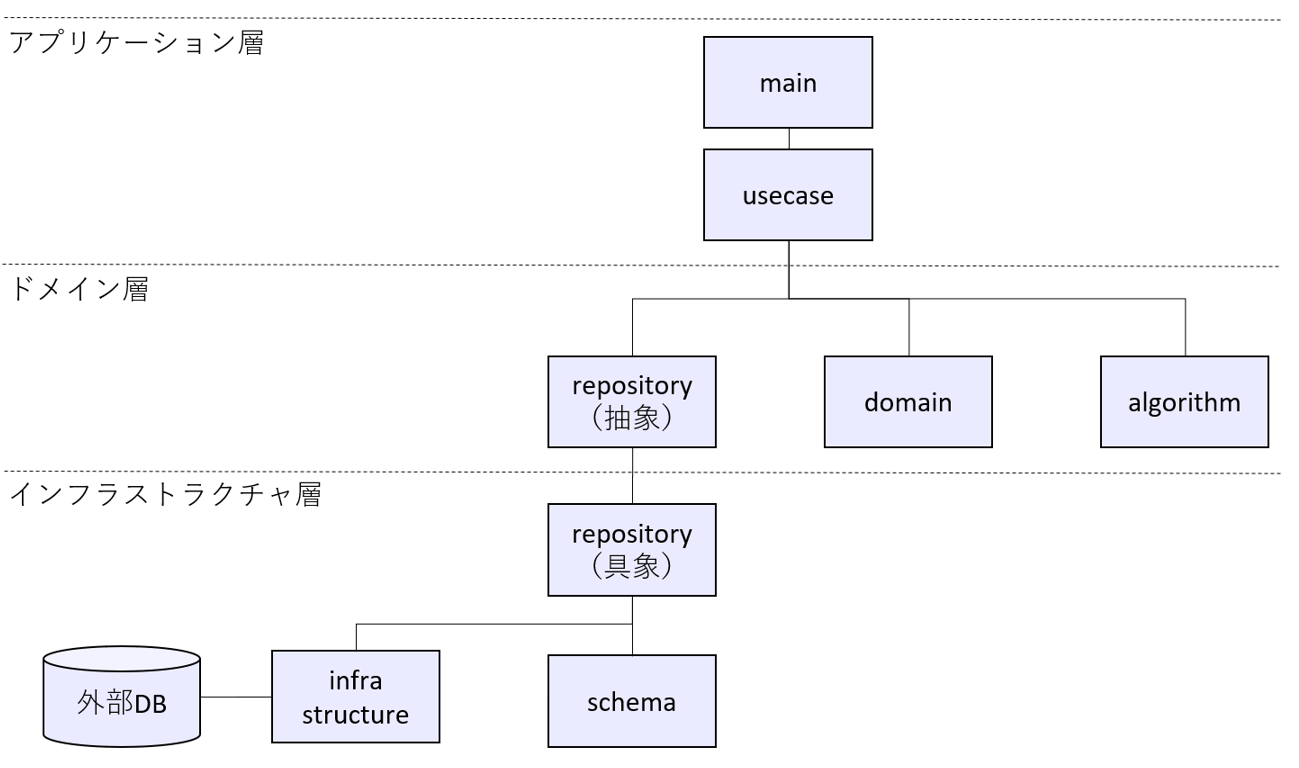
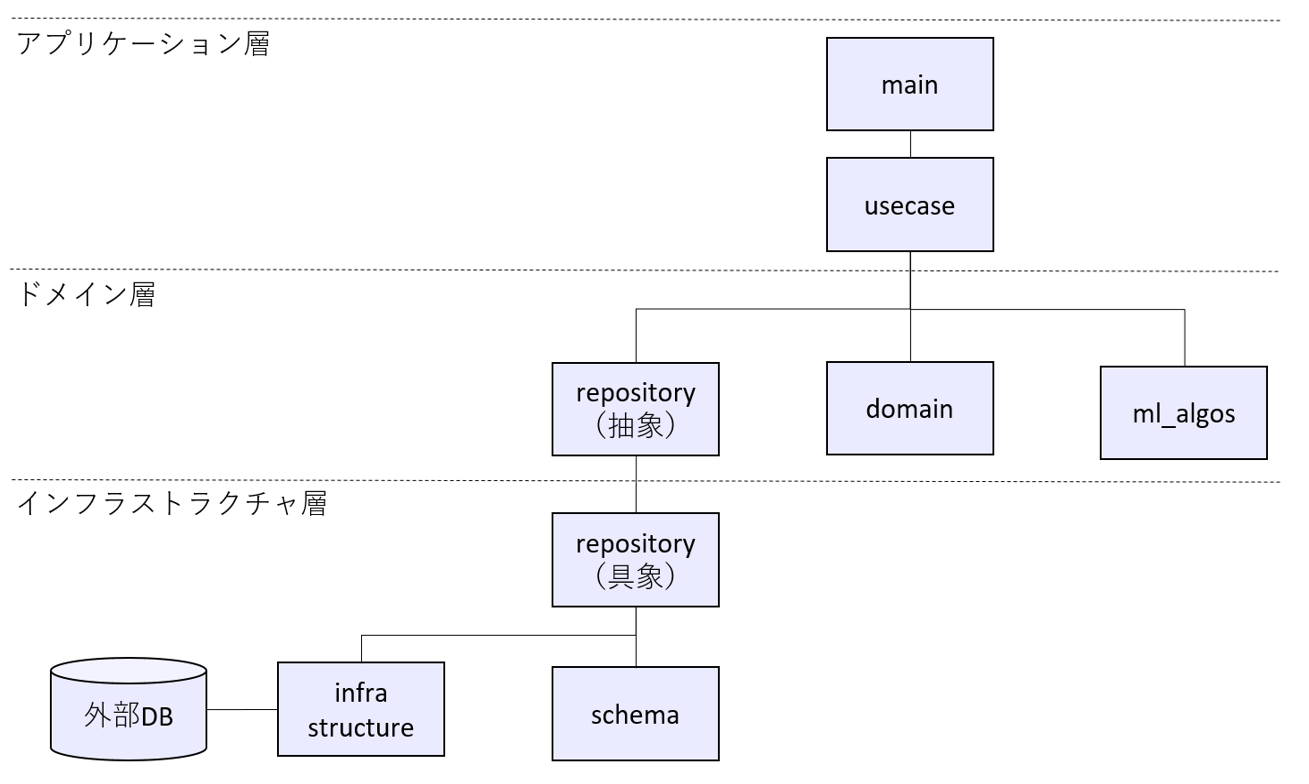
rename from algorithm to ml_algos

diff --git a/machine_learning/src/main.py b/machine_learning/src/main.py
@@ -4,13 +4,13 @@ import mlflow  # type: ignore
 from omegaconf import DictConfig
 
 import hydra
-from src.algorithm.lightgbm_regressor import LightGBMRegression
-from src.algorithm.models import get_model
-from src.algorithm.preprocess import LagSalesExtractor, PricesExtractor
 from src.domain.prediction_data import PredictionDataset
 from src.domain.training_data import TrainingDataset
 from src.infrastructure.database import PostgreSQLClient
 from src.middleware.logger import configure_logger
+from src.ml_algos.lightgbm_regressor import LightGBMRegression
+from src.ml_algos.models import get_model
+from src.ml_algos.preprocess import LagSalesExtractor, PricesExtractor
 from src.repository.calendar_repository import CalendarRepository
 from src.repository.prediction_repository import PredictionRepository
 from src.repository.prices_repository import PricesRepository

diff --git a/machine_learning/src/ml_algos/preprocess.py b/machine_learning/src/ml_algos/preprocess.py
@@ -106,9 +106,9 @@ class LagSalesExtractor(AbstractExtractor):
 
         df_lag = df_lag.assign(
             **{
-                "lag_{}_{}".format(col, lag_day): df_lag.groupby(["id"])["sales"].transform(
-                    lambda x: x.shift(lag_day)
-                )
+                "lag_{}_{}".format(col, lag_day): df_lag.groupby(["id"])[
+                    "sales"
+                ].transform(lambda x: x.shift(lag_day))
                 for lag_day in num_lag_day_list
             }
         )

diff --git a/machine_learning/src/usecase/evaluation_usecase.py b/machine_learning/src/usecase/evaluation_usecase.py
@@ -4,9 +4,9 @@ import pandas as pd
 from sklearn.metrics import mean_absolute_error  # type: ignore
 from sklearn.metrics import mean_squared_error  # type: ignore
 
-from src.algorithm.lightgbm_regressor import AbstractModel
 from src.domain.evaluation_data import Evaluation, FeatureImportances
 from src.middleware.logger import configure_logger
+from src.ml_algos.lightgbm_regressor import AbstractModel
 
 logger = configure_logger(__name__)
 

diff --git a/machine_learning/src/usecase/preprocess_usecase.py b/machine_learning/src/usecase/preprocess_usecase.py
@@ -1,10 +1,10 @@
 import pandas as pd
 
-from src.algorithm.preprocess import AbstractExtractor
 from src.domain.common_data import XY
 from src.domain.preprocessed_data import PreprocessedDataset
 from src.domain.raw_data import RawDataset
 from src.middleware.logger import configure_logger
+from src.ml_algos.preprocess import AbstractExtractor
 
 logger = configure_logger(__name__)
 

diff --git a/machine_learning/src/usecase/prediction_usecase.py b/machine_learning/src/usecase/prediction_usecase.py
@@ -1,8 +1,8 @@
 import pandas as pd
 
-from src.algorithm.lightgbm_regressor import AbstractModel
 from src.domain.prediction_data import Prediction, PredictionDataset
 from src.middleware.logger import configure_logger
+from src.ml_algos.lightgbm_regressor import AbstractModel
 
 logger = configure_logger(__name__)
 

diff --git a/machine_learning/src/usecase/training_usecase.py b/machine_learning/src/usecase/training_usecase.py
@@ -1,8 +1,8 @@
 import pandas as pd
 
-from src.algorithm.lightgbm_regressor import AbstractModel
 from src.domain.training_data import TrainingDataset
 from src.middleware.logger import configure_logger
+from src.ml_algos.lightgbm_regressor import AbstractModel
 
 logger = configure_logger(__name__)
 

diff --git a/machine_learning/src/ml_algos/models.py b/machine_learning/src/ml_algos/models.py
@@ -1,7 +1,7 @@
 from enum import Enum
 from typing import List
 
-from src.algorithm.lightgbm_regressor import LightGBMRegression
+from src.ml_algos.lightgbm_regressor import LightGBMRegression
 
 
 class MODEL(Enum):

diff --git a/README.md b/README.md
@@ -68,19 +68,19 @@
 - リポジトリのライブラリ管理
   - [poetry](https://python-poetry.org/): Pythonのライブラリを管理する。
 
-[machine_learning](./machine_learning/)のプログラムはレイヤードアーキテクチャを採用。クラスを抽象クラスと具象クラスに分けて、コンポーネントの依存が一方向になるように整理しています。
+[machine_learning](./machine_learning/)のプログラムはレイヤードアーキテクチャを採用。クラスを抽象クラスと具象クラスに分けて実装、コンポーネントの依存が一方向になるよう整理しています。
 プログラムは以下のコンポーネントで構成されています。
 
 - [main.py](machine_learning/src/main.py): クラスを初期化し、usecaseのメソッドを実行
 - [usecase](machine_learning/src/usecase/): 機械学習パイプラインの各処理（データ取得、前処理、学習、評価、予測）
 - [domain](machine_learning/src/domain/): usecase間で受け渡すドメインオブジェクトのデータ型
-- [algorithm](machine_learning/src/algorithm/): 機械学習の各種アルゴリズム
+- [ml_algos](machine_learning/src/ml_algos/): 機械学習の各種アルゴリズム
 - [repository](machine_learning/src/repository/): データベースへのリクエスト
 - [schema](machine_learning/src/schema/): データベースから取得するデータ型
 - [infrastructure](machine_learning/src/infrastructure/): 外部データベースへのアクセス
 
 ![img](images/architecture.png)
-（注）図はrepositoryだけ具象と抽象を分けて記載してますが、infrastructureとalgorithmも具象クラスと抽象クラスに分けています。
+（注）図はrepositoryだけ具象と抽象を分けて記載してますが、infrastructureとalgorithmも具象クラスと抽象クラスに分けて実装しています。
 
 ## Requirements
 
